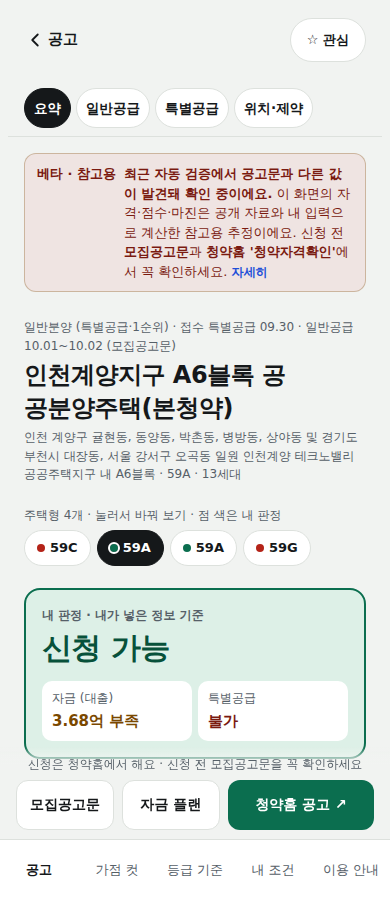
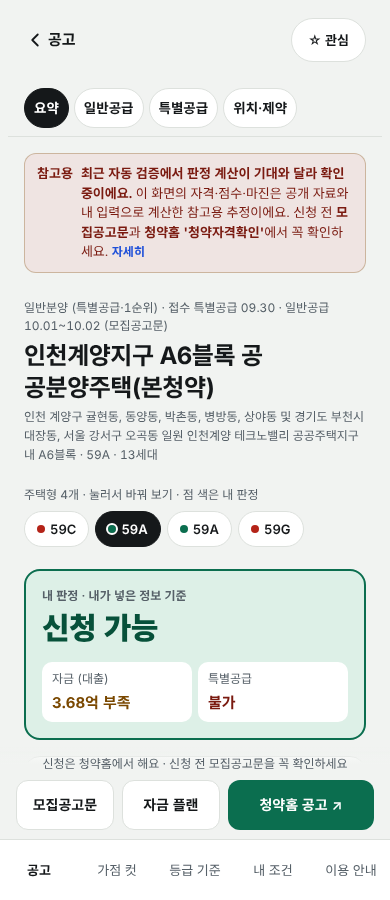
화면 스냅샷 기준에 제주 판정 사례 공고(2026000434) 12건 추가
Claude-Session: https://claude.ai/code/session_011nQgtnV2HrLfiVvL4QYiaz

diff --git a/WORK.md b/WORK.md
@@ -4,6 +4,14 @@
 2026-09-29 12:55 이전 항목은 규칙을 만들기 전 작업을 커밋 기록으로 정리한 것이라 백업 브랜치가 없어요.
 그 시점으로 되돌릴 때는 해당 커밋 번호로 `git revert` 를 써요.
 
+## 2026-11-07 10:30 · 화면 스냅샷 기준에 제주 판정 사례 공고(2026000434) 추가
+- 요청: 운영자 '현재 이슈 있는 부분 하나씩 확인해서 해결해줘'
+- 변경: PR #100 합친 뒤 판정 검증(10:21)이 '화면 스냅샷 12건'으로 ok=false. PR 이 판정 사례 고정 공고(tests/judge/listings.json)에 2026000434-059.9783A 를 더했는데 화면 스냅샷 기준(tests/qa/snapshots.json)에 그 공고가 없어 3개 프로필 × 4칸 = 12건이 '새 항목'으로 걸림. tools/qa/snapshot.cjs --update 로 기준을 다시 씀 — 더해진 12건뿐, 지운 것·바뀐 것 0. 내용: 서울 신혼 세대주·인천 1인 세대원 '거주지 신청 불가'(제주 거주자만), 조건 없음 '판정 전' — 공고문(제주 1년 이상 우선, 기타지역 제주) 대로
+- 파일: tests/qa/snapshots.json, evidence/qa/shots/(사람 확인용 사진 3장), WORK.md
+- 확인: 기준 비교 스크립트로 추가 12·삭제 0·변경 0 확인. 다른 결과(10:05 수집): 2026000553 residence 의정부시·기타 서울·인천·경기, 2026000434·435 months 12·since 2025-10-27, 입력 버튼 검사 문제 0. LH 임대 재시도(10:23)도 data.go.kr 'HTTP 504 SERVICETIMEOUT_ERROR'(공공데이터포털 쪽 장애) — 11-06 LH 데이터 유지
+- 기능: 없음(기록)
+- 백업: backup/20261107-0819 (같은 작업 묶음)
+
 ## 2026-11-07 09:20 · 제주 토지임대부(2026000434·435) 거주 요건 '1년 이상 우선' 읽기 (밤 자동 개선 PR #100 합침, v1.84.8)
 - 요청: 운영자 '현재 이슈 있는 부분 하나씩 확인해서 해결해줘' — 열린 자동 개선 PR #100 (주간 원문 대조 2026-11-02 P1)
 - 변경: PR 그대로(거주 요건 요약 표 머리 '공공' 읽기, 정답 데이터 434·435 residence, 판정 사례 res-jeju 4건). PR 은 같은 날 올린 v1.84.7(같은 함수 옆 줄)·PARSER_VERSION 53 과 겹쳐 그대로 합칠 수 없어 main 위에 두 커밋을 옮겨 얹고 PARSER_VERSION 을 54 로(두 고침 설명 모두 남김)
